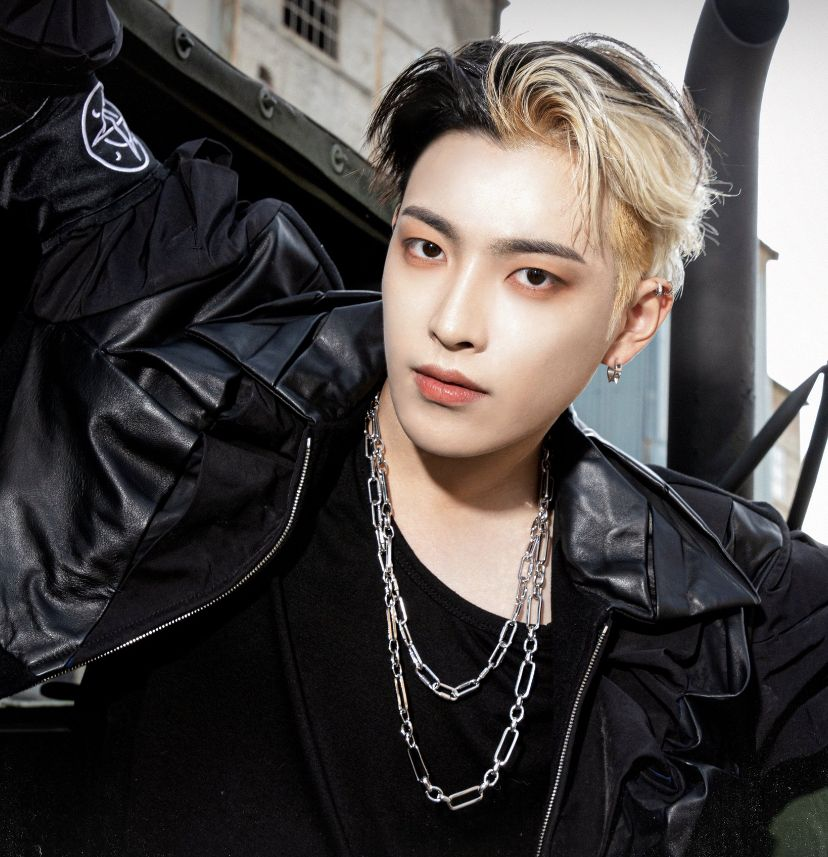
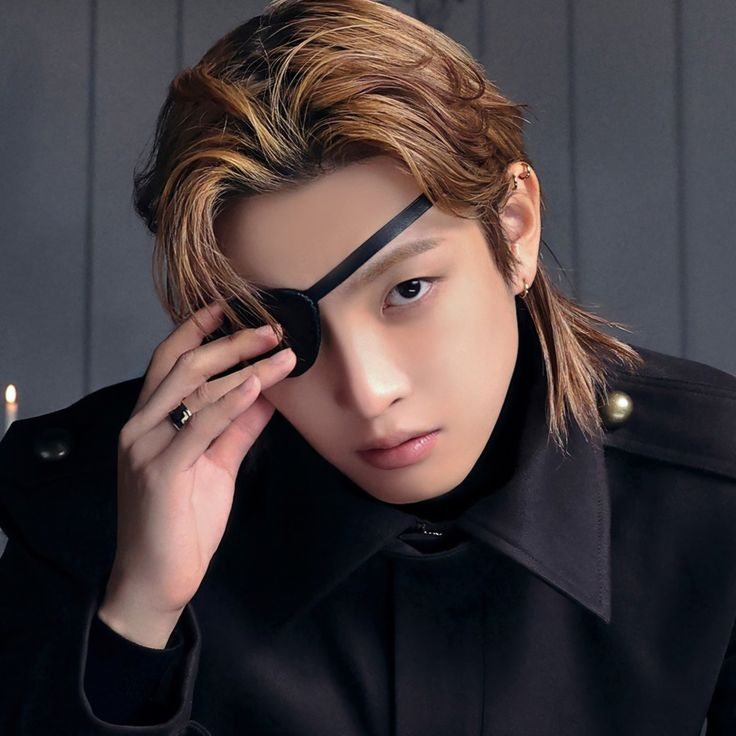
add - membros hongjong, seonghwa e yunho

diff --git a/public/members.html b/public/members.html
@@ -32,6 +32,37 @@
         </nav>
     </header>
 
+    <main class="container mt-5">
+        <h2 class="mb-4">Meet the Members</h2>
+        <div class="row g-4">
+            <div class="col-md-3">
+                <div class="card h-100">
+                    <img src="../assets/hongjong.jpg" class="card-img-top" alt="Kim Hongjoong">
+                    <div class="card-body">
+                        <h5 class="card-title">Hongjoong</h5>
+                    </div>
+                </div>
+            </div>
+            <div class="col-md-3">
+                <div class="card h-100">
+                    <img src="../assets/seonghwa.jpg" class="card-img-top" alt="Park Seonghwa">
+                    <div class="card-body">
+                        <h5 class="card-title">Seonghwa</h5>
+                    </div>
+                </div>
+            </div>
+            <div class="col-md-3">
+                <div class="card h-100">
+                    <img src="../assets/yunho.jpg" class="card-img-top" alt="Jeong Yunho">
+                    <div class="card-body">
+                        <h5 class="card-title">Yunho</h5>
+                    </div>
+                </div>
+            </div>
+
+    </main>
+
     <script src="../scripts/som.js"></script>
 </body>
+
 </html>
